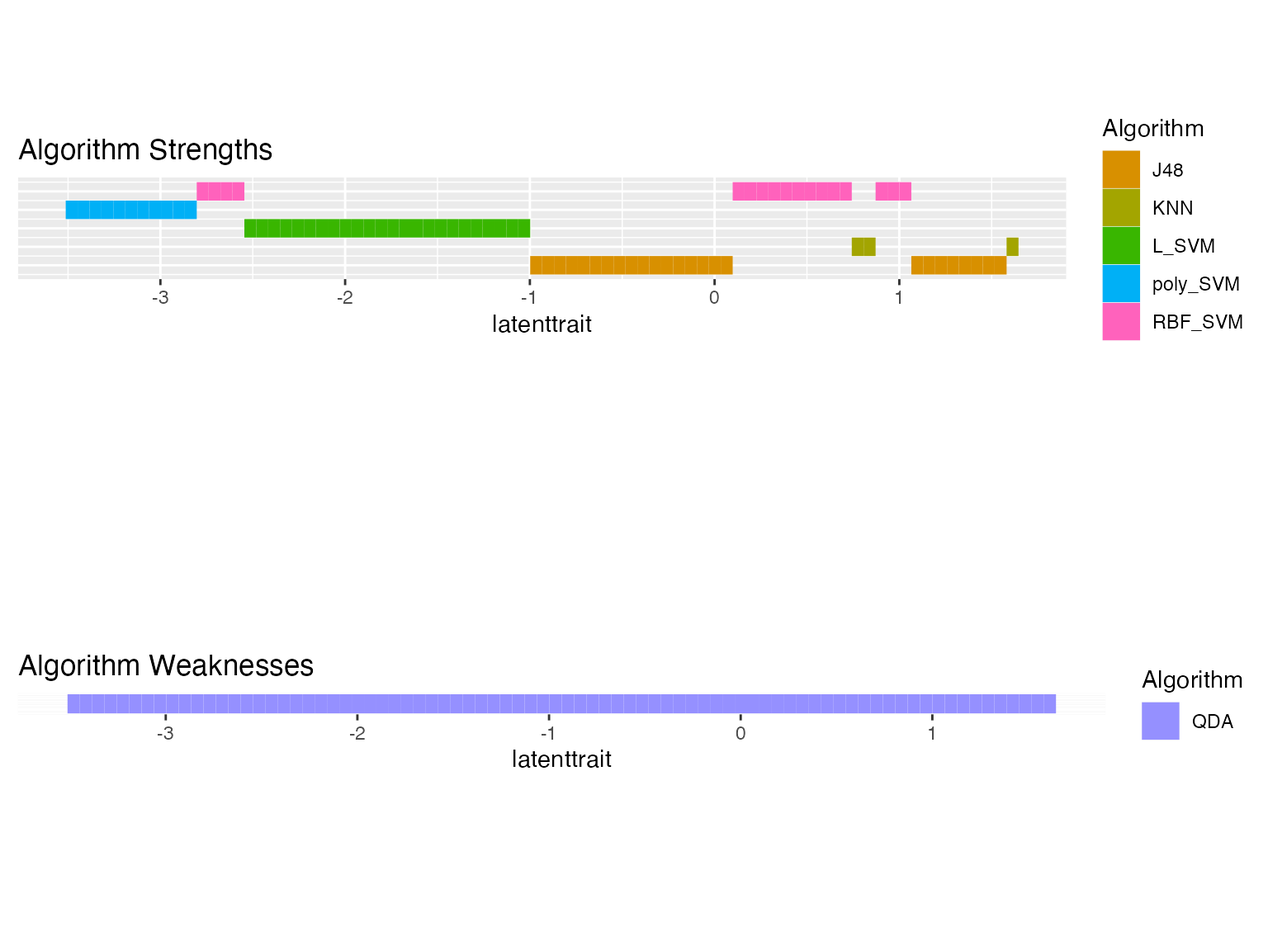
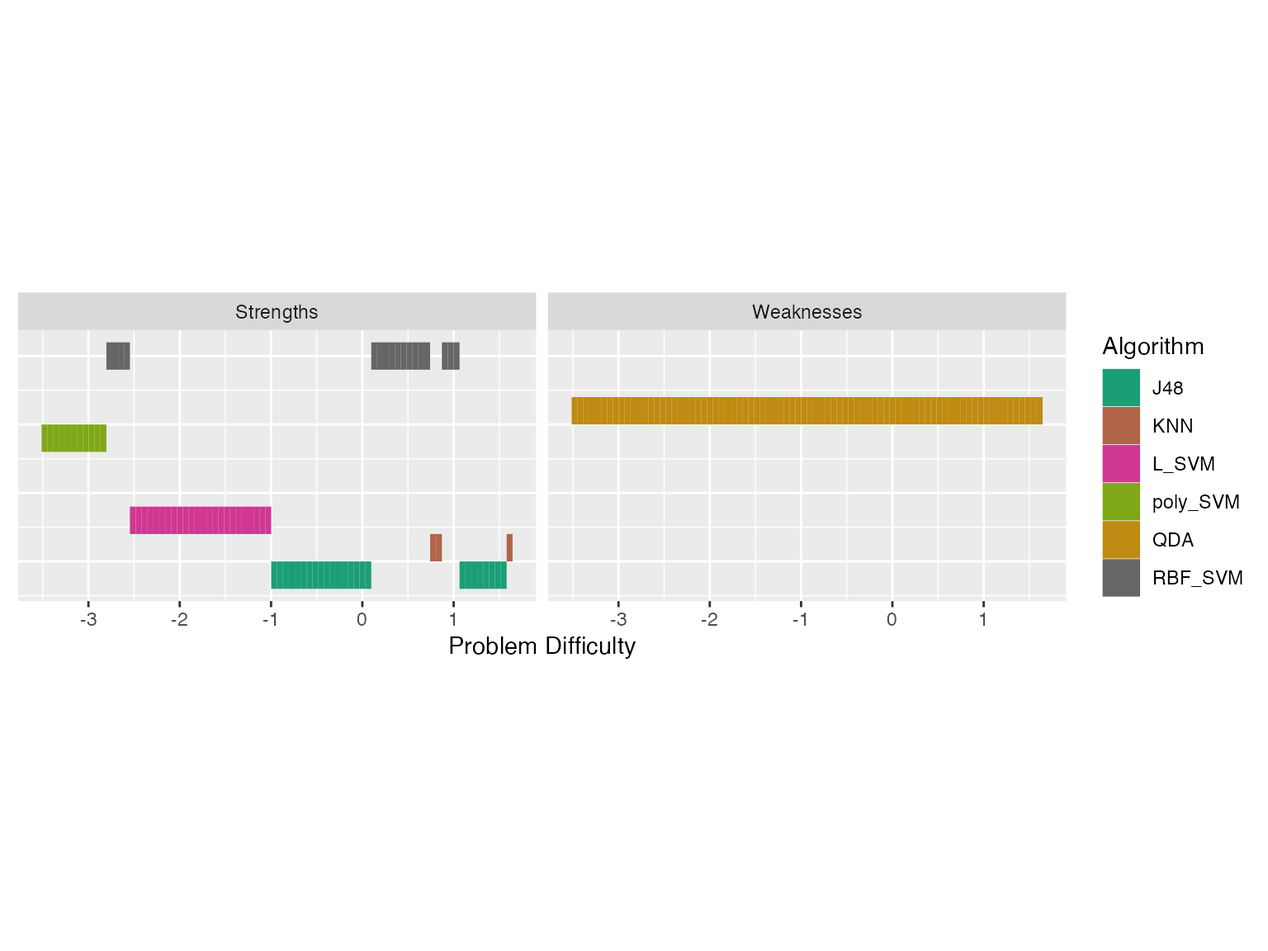
update autoplot latenttrait

diff --git a/docs/articles/airt.html b/docs/articles/airt.html
@@ -143,42 +143,7 @@ algorithm for a given dataset easiness. This gives us the proportion of
 the latent trait spectrum occupied by each algorithm. We call this the
 latent trait occupancy.</p>
 <div class="sourceCode" id="cb7"><pre class="downlit sourceCode r">
-<code class="sourceCode R"><span><span class="va">dfl</span> <span class="op">&lt;-</span> <span class="va">obj</span><span class="op">$</span><span class="va">longdf</span></span>
-<span><span class="va">latent</span> <span class="op">&lt;-</span> <span class="va">obj</span><span class="op">$</span><span class="va">strengths</span></span>
-<span><span class="va">latent</span><span class="op">$</span><span class="va">proportions</span></span>
-<span><span class="co">#&gt; <span style="color: #949494;"># A tibble: 5 × 4</span></span></span>
-<span><span class="co">#&gt;   group Proportion algorithm colour </span></span>
-<span><span class="co">#&gt;   <span style="color: #949494; font-style: italic;">&lt;dbl&gt;</span>      <span style="color: #949494; font-style: italic;">&lt;dbl&gt;</span> <span style="color: #949494; font-style: italic;">&lt;chr&gt;</span>     <span style="color: #949494; font-style: italic;">&lt;chr&gt;</span>  </span></span>
-<span><span class="co">#&gt; <span style="color: #BCBCBC;">1</span>     2     0.472  J48       #D89000</span></span>
-<span><span class="co">#&gt; <span style="color: #BCBCBC;">2</span>    10     0.340  RBF_SVM   #FF62BC</span></span>
-<span><span class="co">#&gt; <span style="color: #BCBCBC;">3</span>     4     0.119  L_SVM     #39B600</span></span>
-<span><span class="co">#&gt; <span style="color: #BCBCBC;">4</span>     3     0.055<span style="text-decoration: underline;">3</span> KNN       #A3A500</span></span>
-<span><span class="co">#&gt; <span style="color: #BCBCBC;">5</span>     7     0.012<span style="text-decoration: underline;">8</span> poly_SVM  #00B0F6</span></span>
-<span></span>
-<span><span class="va">num_algos</span> <span class="op">&lt;-</span> <span class="fu"><a href="https://rdrr.io/r/base/length.html" class="external-link">length</a></span><span class="op">(</span><span class="fu"><a href="https://rdrr.io/r/base/unique.html" class="external-link">unique</a></span><span class="op">(</span><span class="va">dfl</span><span class="op">$</span><span class="va">Algorithm</span><span class="op">)</span><span class="op">)</span></span>
-<span><span class="va">colrs</span> <span class="op">&lt;-</span> <span class="fu">scales</span><span class="fu">::</span><span class="fu"><a href="https://scales.r-lib.org/reference/hue_pal.html" class="external-link">hue_pal</a></span><span class="op">(</span><span class="op">)</span><span class="op">(</span><span class="va">num_algos</span><span class="op">)</span></span>
-<span></span>
-<span><span class="va">latenttr</span> <span class="op">&lt;-</span> <span class="va">obj</span><span class="op">$</span><span class="va">strengths</span><span class="op">$</span><span class="va">multilatent</span></span>
-<span><span class="va">dfl2</span> <span class="op">&lt;-</span> <span class="fu">tidyr</span><span class="fu">::</span><span class="fu"><a href="https://tidyr.tidyverse.org/reference/pivot_longer.html" class="external-link">pivot_longer</a></span><span class="op">(</span><span class="va">latenttr</span>, cols <span class="op">=</span> <span class="fl">2</span><span class="op">:</span><span class="fu"><a href="https://rdrr.io/r/base/dim.html" class="external-link">dim</a></span><span class="op">(</span><span class="va">latenttr</span><span class="op">)</span><span class="op">[</span><span class="fl">2</span><span class="op">]</span><span class="op">)</span></span>
-<span><span class="fu"><a href="https://rdrr.io/r/base/colnames.html" class="external-link">colnames</a></span><span class="op">(</span><span class="va">dfl2</span><span class="op">)</span><span class="op">[</span><span class="fl">2</span><span class="op">]</span> <span class="op">&lt;-</span> <span class="st">"Algorithm"</span></span>
-<span><span class="va">dfl2</span> <span class="op">&lt;-</span> <span class="va">dfl2</span><span class="op">[</span><span class="va">dfl2</span><span class="op">$</span><span class="va">value</span><span class="op">!=</span><span class="fl">0</span>, <span class="op">]</span></span>
-<span><span class="va">new_vals</span> <span class="op">&lt;-</span> <span class="fu"><a href="https://rdrr.io/r/base/seq.html" class="external-link">seq</a></span><span class="op">(</span><span class="fl">1</span>, <span class="fu"><a href="https://rdrr.io/r/base/length.html" class="external-link">length</a></span><span class="op">(</span><span class="fu"><a href="https://rdrr.io/r/base/unique.html" class="external-link">unique</a></span><span class="op">(</span><span class="va">dfl2</span><span class="op">$</span><span class="va">value</span><span class="op">)</span><span class="op">)</span>, by <span class="op">=</span> <span class="fl">1</span><span class="op">)</span></span>
-<span><span class="va">dfl2</span><span class="op">$</span><span class="va">value</span> <span class="op">&lt;-</span> <span class="va">new_vals</span><span class="op">[</span><span class="fu"><a href="https://rdrr.io/r/base/factor.html" class="external-link">as.factor</a></span><span class="op">(</span><span class="va">dfl2</span><span class="op">$</span><span class="va">value</span> <span class="op">)</span><span class="op">]</span></span>
-<span><span class="va">dfl2</span><span class="op">$</span><span class="va">value</span> <span class="op">&lt;-</span> <span class="va">dfl2</span><span class="op">$</span><span class="va">value</span><span class="op">*</span><span class="fl">0.1</span></span>
-<span><span class="va">colrs2</span> <span class="op">&lt;-</span> <span class="va">colrs</span><span class="op">[</span><span class="fu"><a href="https://rdrr.io/r/base/which.html" class="external-link">which</a></span><span class="op">(</span><span class="fu"><a href="https://rdrr.io/r/base/sort.html" class="external-link">sort</a></span><span class="op">(</span><span class="fu"><a href="https://rdrr.io/r/base/unique.html" class="external-link">unique</a></span><span class="op">(</span><span class="va">dfl</span><span class="op">$</span><span class="va">Algorithm</span><span class="op">)</span><span class="op">)</span> <span class="op"><a href="https://rdrr.io/r/base/match.html" class="external-link">%in%</a></span> <span class="fu"><a href="https://rdrr.io/r/base/unique.html" class="external-link">unique</a></span><span class="op">(</span><span class="va">dfl2</span><span class="op">$</span><span class="va">Algorithm</span><span class="op">)</span><span class="op">)</span><span class="op">]</span></span>
-<span><span class="va">g6</span> <span class="op">&lt;-</span> <span class="fu"><a href="https://ggplot2.tidyverse.org/reference/ggplot.html" class="external-link">ggplot</a></span><span class="op">(</span><span class="va">dfl2</span>, <span class="fu"><a href="https://ggplot2.tidyverse.org/reference/aes.html" class="external-link">aes</a></span><span class="op">(</span>x <span class="op">=</span> <span class="va">latenttrait</span>, y <span class="op">=</span><span class="va">value</span>, fill <span class="op">=</span> <span class="va">Algorithm</span><span class="op">)</span><span class="op">)</span> <span class="op">+</span> <span class="fu"><a href="https://ggplot2.tidyverse.org/reference/geom_tile.html" class="external-link">geom_tile</a></span><span class="op">(</span><span class="op">)</span> <span class="op">+</span> <span class="fu"><a href="https://ggplot2.tidyverse.org/reference/theme.html" class="external-link">theme</a></span><span class="op">(</span>axis.title.y<span class="op">=</span><span class="fu"><a href="https://ggplot2.tidyverse.org/reference/element.html" class="external-link">element_blank</a></span><span class="op">(</span><span class="op">)</span>, axis.text.y<span class="op">=</span><span class="fu"><a href="https://ggplot2.tidyverse.org/reference/element.html" class="external-link">element_blank</a></span><span class="op">(</span><span class="op">)</span>,axis.ticks.y<span class="op">=</span><span class="fu"><a href="https://ggplot2.tidyverse.org/reference/element.html" class="external-link">element_blank</a></span><span class="op">(</span><span class="op">)</span><span class="op">)</span> <span class="op">+</span>   <span class="fu"><a href="https://ggplot2.tidyverse.org/reference/scale_manual.html" class="external-link">scale_fill_manual</a></span><span class="op">(</span>values <span class="op">=</span> <span class="va">colrs2</span><span class="op">)</span> <span class="op">+</span> <span class="fu"><a href="https://ggplot2.tidyverse.org/reference/labs.html" class="external-link">ggtitle</a></span><span class="op">(</span><span class="st">"Algorithm Strengths"</span><span class="op">)</span> <span class="op">+</span> <span class="fu"><a href="https://ggplot2.tidyverse.org/reference/coord_fixed.html" class="external-link">coord_fixed</a></span><span class="op">(</span>ratio<span class="op">=</span><span class="fl">1</span><span class="op">)</span></span>
-<span></span>
-<span><span class="va">latenttr2</span> <span class="op">&lt;-</span> <span class="va">obj</span><span class="op">$</span><span class="va">weakness</span><span class="op">$</span><span class="va">multilatent</span></span>
-<span><span class="va">dfl3</span> <span class="op">&lt;-</span> <span class="fu">tidyr</span><span class="fu">::</span><span class="fu"><a href="https://tidyr.tidyverse.org/reference/pivot_longer.html" class="external-link">pivot_longer</a></span><span class="op">(</span><span class="va">latenttr2</span>, cols <span class="op">=</span> <span class="fl">2</span><span class="op">:</span><span class="fu"><a href="https://rdrr.io/r/base/dim.html" class="external-link">dim</a></span><span class="op">(</span><span class="va">latenttr</span><span class="op">)</span><span class="op">[</span><span class="fl">2</span><span class="op">]</span><span class="op">)</span></span>
-<span><span class="fu"><a href="https://rdrr.io/r/base/colnames.html" class="external-link">colnames</a></span><span class="op">(</span><span class="va">dfl3</span><span class="op">)</span><span class="op">[</span><span class="fl">2</span><span class="op">]</span> <span class="op">&lt;-</span> <span class="st">"Algorithm"</span></span>
-<span><span class="va">dfl3</span> <span class="op">&lt;-</span> <span class="va">dfl3</span><span class="op">[</span><span class="va">dfl3</span><span class="op">$</span><span class="va">value</span><span class="op">!=</span><span class="fl">0</span>, <span class="op">]</span></span>
-<span><span class="va">new_vals</span> <span class="op">&lt;-</span> <span class="fu"><a href="https://rdrr.io/r/base/seq.html" class="external-link">seq</a></span><span class="op">(</span><span class="fl">1</span>, <span class="fu"><a href="https://rdrr.io/r/base/length.html" class="external-link">length</a></span><span class="op">(</span><span class="fu"><a href="https://rdrr.io/r/base/unique.html" class="external-link">unique</a></span><span class="op">(</span><span class="va">dfl3</span><span class="op">$</span><span class="va">value</span><span class="op">)</span><span class="op">)</span>, by <span class="op">=</span> <span class="fl">1</span><span class="op">)</span></span>
-<span><span class="va">dfl3</span><span class="op">$</span><span class="va">value</span> <span class="op">&lt;-</span> <span class="va">new_vals</span><span class="op">[</span><span class="fu"><a href="https://rdrr.io/r/base/factor.html" class="external-link">as.factor</a></span><span class="op">(</span><span class="va">dfl3</span><span class="op">$</span><span class="va">value</span> <span class="op">)</span><span class="op">]</span></span>
-<span><span class="va">dfl3</span><span class="op">$</span><span class="va">value</span> <span class="op">&lt;-</span> <span class="va">dfl3</span><span class="op">$</span><span class="va">value</span><span class="op">*</span><span class="fl">0.1</span></span>
-<span><span class="va">colrs2</span> <span class="op">&lt;-</span> <span class="va">colrs</span><span class="op">[</span><span class="fu"><a href="https://rdrr.io/r/base/which.html" class="external-link">which</a></span><span class="op">(</span><span class="fu"><a href="https://rdrr.io/r/base/sort.html" class="external-link">sort</a></span><span class="op">(</span><span class="fu"><a href="https://rdrr.io/r/base/unique.html" class="external-link">unique</a></span><span class="op">(</span><span class="va">dfl</span><span class="op">$</span><span class="va">Algorithm</span><span class="op">)</span><span class="op">)</span> <span class="op"><a href="https://rdrr.io/r/base/match.html" class="external-link">%in%</a></span> <span class="fu"><a href="https://rdrr.io/r/base/unique.html" class="external-link">unique</a></span><span class="op">(</span><span class="va">dfl3</span><span class="op">$</span><span class="va">Algorithm</span><span class="op">)</span><span class="op">)</span><span class="op">]</span></span>
-<span><span class="va">g7</span> <span class="op">&lt;-</span> <span class="fu"><a href="https://ggplot2.tidyverse.org/reference/ggplot.html" class="external-link">ggplot</a></span><span class="op">(</span><span class="va">dfl3</span>, <span class="fu"><a href="https://ggplot2.tidyverse.org/reference/aes.html" class="external-link">aes</a></span><span class="op">(</span>x <span class="op">=</span> <span class="va">latenttrait</span>, y <span class="op">=</span><span class="va">value</span>, fill <span class="op">=</span> <span class="va">Algorithm</span><span class="op">)</span><span class="op">)</span> <span class="op">+</span> <span class="fu"><a href="https://ggplot2.tidyverse.org/reference/geom_tile.html" class="external-link">geom_tile</a></span><span class="op">(</span><span class="op">)</span> <span class="op">+</span> <span class="fu"><a href="https://ggplot2.tidyverse.org/reference/theme.html" class="external-link">theme</a></span><span class="op">(</span>axis.title.y<span class="op">=</span><span class="fu"><a href="https://ggplot2.tidyverse.org/reference/element.html" class="external-link">element_blank</a></span><span class="op">(</span><span class="op">)</span>, axis.text.y<span class="op">=</span><span class="fu"><a href="https://ggplot2.tidyverse.org/reference/element.html" class="external-link">element_blank</a></span><span class="op">(</span><span class="op">)</span>,axis.ticks.y<span class="op">=</span><span class="fu"><a href="https://ggplot2.tidyverse.org/reference/element.html" class="external-link">element_blank</a></span><span class="op">(</span><span class="op">)</span><span class="op">)</span> <span class="op">+</span>  <span class="fu"><a href="https://ggplot2.tidyverse.org/reference/scale_manual.html" class="external-link">scale_fill_manual</a></span><span class="op">(</span>values <span class="op">=</span> <span class="va">colrs2</span><span class="op">)</span>  <span class="op">+</span> <span class="fu"><a href="https://ggplot2.tidyverse.org/reference/labs.html" class="external-link">ggtitle</a></span><span class="op">(</span><span class="st">"Algorithm Weaknesses"</span><span class="op">)</span> <span class="op">+</span>  <span class="fu"><a href="https://ggplot2.tidyverse.org/reference/coord_fixed.html" class="external-link">coord_fixed</a></span><span class="op">(</span>ratio<span class="op">=</span><span class="fl">0.1</span><span class="op">)</span></span>
-<span></span>
-<span><span class="fu"><a href="https://rdrr.io/pkg/gridExtra/man/arrangeGrob.html" class="external-link">grid.arrange</a></span><span class="op">(</span><span class="va">g6</span>, <span class="va">g7</span><span class="op">)</span></span></code></pre></div>
+<code class="sourceCode R"><span><span class="fu"><a href="https://ggplot2.tidyverse.org/reference/autoplot.html" class="external-link">autoplot</a></span><span class="op">(</span><span class="va">obj</span>, plottype <span class="op">=</span> <span class="fl">4</span><span class="op">)</span></span></code></pre></div>
 <p><img src="airt_files/figure-html/latent%204-1.png" width="768"></p>
 <p>We see latent trait occupancy in the graph above. The 5 algorithms
 J48, KNN L_SVM, poly_SVM and RBF_SVM occupy parts of the latent trait
@@ -368,7 +333,7 @@ paper <span class="citation">(Kandanaarachchi and Smith-Miles
 <div id="ref-airtPaper" class="csl-entry">
 Kandanaarachchi, Sevvandi, and Kate Smith-Miles. 2020.
 <span>“Comprehensive Algorithm Portfolio Evaluation Using Item Response
-Theory.”</span> <em>Working Paper</em>. RMIT University. <a href="https://www.researchgate.net/publication/341150504_Comprehensive_Algorithm_Portfolio_Evaluation_using_Item_Response_Theory" class="external-link">https://www.researchgate.net/publication/341150504_Comprehensive_Algorithm_Portfolio_Evaluation_using_Item_Response_Theory</a>.
+Theory.”</span> <em>Working Paper</em>. CSIRO’s Data61. <a href="https://www.researchgate.net/publication/341150504_Comprehensive_Algorithm_Portfolio_Evaluation_using_Item_Response_Theory" class="external-link">https://www.researchgate.net/publication/341150504_Comprehensive_Algorithm_Portfolio_Evaluation_using_Item_Response_Theory</a>.
 </div>
 <div id="ref-munoz2018instance" class="csl-entry">
 Muñoz, Mario A, Laura Villanova, Davaatseren Baatar, and Kate

diff --git a/docs/index.html b/docs/index.html
@@ -155,41 +155,7 @@
 <code class="sourceCode R"><span><span class="fu"><a href="https://ggplot2.tidyverse.org/reference/autoplot.html" class="external-link">autoplot</a></span><span class="op">(</span><span class="va">obj</span>, plottype <span class="op">=</span> <span class="fl">3</span><span class="op">)</span></span></code></pre></div>
 <p><img src="reference/figures/README-latent3-1.png" width="100%"> We fit smoothing-splines to the performance data by algorithm. The figure above shows these smoothing splines for each algorithm as a function of the dataset easiness. From this figure, we can get the best algorithm for a given dataset easiness. This gives us the proportion of the latent trait spectrum occupied by each algorithm. We call this the latent trait occupancy.</p>
 <div class="sourceCode" id="cb8"><pre class="downlit sourceCode r">
-<code class="sourceCode R"><span><span class="va">dfl</span> <span class="op">&lt;-</span> <span class="va">obj</span><span class="op">$</span><span class="va">longdf</span></span>
-<span><span class="va">latent</span> <span class="op">&lt;-</span> <span class="va">obj</span><span class="op">$</span><span class="va">strengths</span></span>
-<span><span class="va">latent</span><span class="op">$</span><span class="va">proportions</span></span>
-<span><span class="co">#&gt; # A tibble: 3 × 4</span></span>
-<span><span class="co">#&gt;   group Proportion algorithm colour </span></span>
-<span><span class="co">#&gt;   &lt;dbl&gt;      &lt;dbl&gt; &lt;chr&gt;     &lt;chr&gt;  </span></span>
-<span><span class="co">#&gt; 1     4      0.87  D         #C77CFF</span></span>
-<span><span class="co">#&gt; 2     1      0.065 A         #F8766D</span></span>
-<span><span class="co">#&gt; 3     3      0.065 C         #00BFC4</span></span>
-<span></span>
-<span><span class="va">num_algos</span> <span class="op">&lt;-</span> <span class="fu"><a href="https://rdrr.io/r/base/length.html" class="external-link">length</a></span><span class="op">(</span><span class="fu"><a href="https://rdrr.io/r/base/unique.html" class="external-link">unique</a></span><span class="op">(</span><span class="va">dfl</span><span class="op">$</span><span class="va">Algorithm</span><span class="op">)</span><span class="op">)</span></span>
-<span><span class="va">colrs</span> <span class="op">&lt;-</span> <span class="fu">scales</span><span class="fu">::</span><span class="fu"><a href="https://scales.r-lib.org/reference/hue_pal.html" class="external-link">hue_pal</a></span><span class="op">(</span><span class="op">)</span><span class="op">(</span><span class="va">num_algos</span><span class="op">)</span></span>
-<span> </span>
-<span><span class="va">latenttr</span> <span class="op">&lt;-</span> <span class="va">obj</span><span class="op">$</span><span class="va">strengths</span><span class="op">$</span><span class="va">multilatent</span></span>
-<span><span class="va">dfl2</span> <span class="op">&lt;-</span> <span class="fu">tidyr</span><span class="fu">::</span><span class="fu"><a href="https://tidyr.tidyverse.org/reference/pivot_longer.html" class="external-link">pivot_longer</a></span><span class="op">(</span><span class="va">latenttr</span>, cols <span class="op">=</span> <span class="fl">2</span><span class="op">:</span><span class="fu"><a href="https://rdrr.io/r/base/dim.html" class="external-link">dim</a></span><span class="op">(</span><span class="va">latenttr</span><span class="op">)</span><span class="op">[</span><span class="fl">2</span><span class="op">]</span><span class="op">)</span></span>
-<span><span class="fu"><a href="https://rdrr.io/r/base/colnames.html" class="external-link">colnames</a></span><span class="op">(</span><span class="va">dfl2</span><span class="op">)</span><span class="op">[</span><span class="fl">2</span><span class="op">]</span> <span class="op">&lt;-</span> <span class="st">"Algorithm"</span></span>
-<span><span class="va">dfl2</span> <span class="op">&lt;-</span> <span class="va">dfl2</span><span class="op">[</span><span class="va">dfl2</span><span class="op">$</span><span class="va">value</span><span class="op">!=</span><span class="fl">0</span>, <span class="op">]</span></span>
-<span><span class="va">new_vals</span> <span class="op">&lt;-</span> <span class="fu"><a href="https://rdrr.io/r/base/seq.html" class="external-link">seq</a></span><span class="op">(</span><span class="fl">1</span>, <span class="fu"><a href="https://rdrr.io/r/base/length.html" class="external-link">length</a></span><span class="op">(</span><span class="fu"><a href="https://rdrr.io/r/base/unique.html" class="external-link">unique</a></span><span class="op">(</span><span class="va">dfl2</span><span class="op">$</span><span class="va">value</span><span class="op">)</span><span class="op">)</span>, by <span class="op">=</span> <span class="fl">1</span><span class="op">)</span></span>
-<span><span class="va">dfl2</span><span class="op">$</span><span class="va">value</span> <span class="op">&lt;-</span> <span class="va">new_vals</span><span class="op">[</span><span class="fu"><a href="https://rdrr.io/r/base/factor.html" class="external-link">as.factor</a></span><span class="op">(</span><span class="va">dfl2</span><span class="op">$</span><span class="va">value</span> <span class="op">)</span><span class="op">]</span></span>
-<span><span class="va">dfl2</span><span class="op">$</span><span class="va">value</span> <span class="op">&lt;-</span> <span class="va">dfl2</span><span class="op">$</span><span class="va">value</span><span class="op">*</span><span class="fl">0.1</span></span>
-<span><span class="va">colrs2</span> <span class="op">&lt;-</span> <span class="va">colrs</span><span class="op">[</span><span class="fu"><a href="https://rdrr.io/r/base/which.html" class="external-link">which</a></span><span class="op">(</span><span class="fu"><a href="https://rdrr.io/r/base/sort.html" class="external-link">sort</a></span><span class="op">(</span><span class="fu"><a href="https://rdrr.io/r/base/unique.html" class="external-link">unique</a></span><span class="op">(</span><span class="va">dfl</span><span class="op">$</span><span class="va">Algorithm</span><span class="op">)</span><span class="op">)</span> <span class="op"><a href="https://rdrr.io/r/base/match.html" class="external-link">%in%</a></span> <span class="fu"><a href="https://rdrr.io/r/base/unique.html" class="external-link">unique</a></span><span class="op">(</span><span class="va">dfl2</span><span class="op">$</span><span class="va">Algorithm</span><span class="op">)</span><span class="op">)</span><span class="op">]</span></span>
-<span><span class="va">g6</span> <span class="op">&lt;-</span> <span class="fu"><a href="https://ggplot2.tidyverse.org/reference/ggplot.html" class="external-link">ggplot</a></span><span class="op">(</span><span class="va">dfl2</span>, <span class="fu"><a href="https://ggplot2.tidyverse.org/reference/aes.html" class="external-link">aes</a></span><span class="op">(</span>x <span class="op">=</span> <span class="va">latenttrait</span>, y <span class="op">=</span><span class="va">value</span>, fill <span class="op">=</span> <span class="va">Algorithm</span><span class="op">)</span><span class="op">)</span> <span class="op">+</span> <span class="fu"><a href="https://ggplot2.tidyverse.org/reference/geom_tile.html" class="external-link">geom_tile</a></span><span class="op">(</span><span class="op">)</span> <span class="op">+</span> <span class="fu"><a href="https://ggplot2.tidyverse.org/reference/theme.html" class="external-link">theme</a></span><span class="op">(</span>axis.title.y<span class="op">=</span><span class="fu"><a href="https://ggplot2.tidyverse.org/reference/element.html" class="external-link">element_blank</a></span><span class="op">(</span><span class="op">)</span>, axis.text.y<span class="op">=</span><span class="fu"><a href="https://ggplot2.tidyverse.org/reference/element.html" class="external-link">element_blank</a></span><span class="op">(</span><span class="op">)</span>,axis.ticks.y<span class="op">=</span><span class="fu"><a href="https://ggplot2.tidyverse.org/reference/element.html" class="external-link">element_blank</a></span><span class="op">(</span><span class="op">)</span><span class="op">)</span>  <span class="op">+</span> <span class="fu"><a href="https://ggplot2.tidyverse.org/reference/scale_manual.html" class="external-link">scale_fill_manual</a></span><span class="op">(</span>values <span class="op">=</span> <span class="va">colrs2</span><span class="op">)</span> <span class="op">+</span>  <span class="fu"><a href="https://ggplot2.tidyverse.org/reference/labs.html" class="external-link">ggtitle</a></span><span class="op">(</span><span class="st">"Algorithm Strengths"</span><span class="op">)</span> <span class="op">+</span>  <span class="fu"><a href="https://ggplot2.tidyverse.org/reference/coord_fixed.html" class="external-link">coord_fixed</a></span><span class="op">(</span>ratio<span class="op">=</span><span class="fl">1</span><span class="op">)</span></span>
-<span></span>
-<span></span>
-<span><span class="va">latenttr2</span> <span class="op">&lt;-</span> <span class="va">obj</span><span class="op">$</span><span class="va">weakness</span><span class="op">$</span><span class="va">multilatent</span></span>
-<span><span class="va">dfl3</span> <span class="op">&lt;-</span> <span class="fu">tidyr</span><span class="fu">::</span><span class="fu"><a href="https://tidyr.tidyverse.org/reference/pivot_longer.html" class="external-link">pivot_longer</a></span><span class="op">(</span><span class="va">latenttr2</span>, cols <span class="op">=</span> <span class="fl">2</span><span class="op">:</span><span class="fu"><a href="https://rdrr.io/r/base/dim.html" class="external-link">dim</a></span><span class="op">(</span><span class="va">latenttr</span><span class="op">)</span><span class="op">[</span><span class="fl">2</span><span class="op">]</span><span class="op">)</span></span>
-<span><span class="fu"><a href="https://rdrr.io/r/base/colnames.html" class="external-link">colnames</a></span><span class="op">(</span><span class="va">dfl3</span><span class="op">)</span><span class="op">[</span><span class="fl">2</span><span class="op">]</span> <span class="op">&lt;-</span> <span class="st">"Algorithm"</span></span>
-<span><span class="va">dfl3</span> <span class="op">&lt;-</span> <span class="va">dfl3</span><span class="op">[</span><span class="va">dfl3</span><span class="op">$</span><span class="va">value</span><span class="op">!=</span><span class="fl">0</span>, <span class="op">]</span></span>
-<span><span class="va">new_vals</span> <span class="op">&lt;-</span> <span class="fu"><a href="https://rdrr.io/r/base/seq.html" class="external-link">seq</a></span><span class="op">(</span><span class="fl">1</span>, <span class="fu"><a href="https://rdrr.io/r/base/length.html" class="external-link">length</a></span><span class="op">(</span><span class="fu"><a href="https://rdrr.io/r/base/unique.html" class="external-link">unique</a></span><span class="op">(</span><span class="va">dfl3</span><span class="op">$</span><span class="va">value</span><span class="op">)</span><span class="op">)</span>, by <span class="op">=</span> <span class="fl">1</span><span class="op">)</span></span>
-<span><span class="va">dfl3</span><span class="op">$</span><span class="va">value</span> <span class="op">&lt;-</span> <span class="va">new_vals</span><span class="op">[</span><span class="fu"><a href="https://rdrr.io/r/base/factor.html" class="external-link">as.factor</a></span><span class="op">(</span><span class="va">dfl3</span><span class="op">$</span><span class="va">value</span> <span class="op">)</span><span class="op">]</span></span>
-<span><span class="va">dfl3</span><span class="op">$</span><span class="va">value</span> <span class="op">&lt;-</span> <span class="va">dfl3</span><span class="op">$</span><span class="va">value</span><span class="op">*</span><span class="fl">0.1</span></span>
-<span><span class="va">colrs2</span> <span class="op">&lt;-</span> <span class="va">colrs</span><span class="op">[</span><span class="fu"><a href="https://rdrr.io/r/base/which.html" class="external-link">which</a></span><span class="op">(</span><span class="fu"><a href="https://rdrr.io/r/base/sort.html" class="external-link">sort</a></span><span class="op">(</span><span class="fu"><a href="https://rdrr.io/r/base/unique.html" class="external-link">unique</a></span><span class="op">(</span><span class="va">dfl</span><span class="op">$</span><span class="va">Algorithm</span><span class="op">)</span><span class="op">)</span> <span class="op"><a href="https://rdrr.io/r/base/match.html" class="external-link">%in%</a></span> <span class="fu"><a href="https://rdrr.io/r/base/unique.html" class="external-link">unique</a></span><span class="op">(</span><span class="va">dfl3</span><span class="op">$</span><span class="va">Algorithm</span><span class="op">)</span><span class="op">)</span><span class="op">]</span></span>
-<span><span class="va">g7</span> <span class="op">&lt;-</span> <span class="fu"><a href="https://ggplot2.tidyverse.org/reference/ggplot.html" class="external-link">ggplot</a></span><span class="op">(</span><span class="va">dfl3</span>, <span class="fu"><a href="https://ggplot2.tidyverse.org/reference/aes.html" class="external-link">aes</a></span><span class="op">(</span>x <span class="op">=</span> <span class="va">latenttrait</span>, y <span class="op">=</span><span class="va">value</span>, fill <span class="op">=</span> <span class="va">Algorithm</span><span class="op">)</span><span class="op">)</span> <span class="op">+</span> <span class="fu"><a href="https://ggplot2.tidyverse.org/reference/geom_tile.html" class="external-link">geom_tile</a></span><span class="op">(</span><span class="op">)</span> <span class="op">+</span> <span class="fu"><a href="https://ggplot2.tidyverse.org/reference/theme.html" class="external-link">theme</a></span><span class="op">(</span>axis.title.y<span class="op">=</span><span class="fu"><a href="https://ggplot2.tidyverse.org/reference/element.html" class="external-link">element_blank</a></span><span class="op">(</span><span class="op">)</span>, axis.text.y<span class="op">=</span><span class="fu"><a href="https://ggplot2.tidyverse.org/reference/element.html" class="external-link">element_blank</a></span><span class="op">(</span><span class="op">)</span>,axis.ticks.y<span class="op">=</span><span class="fu"><a href="https://ggplot2.tidyverse.org/reference/element.html" class="external-link">element_blank</a></span><span class="op">(</span><span class="op">)</span><span class="op">)</span> <span class="op">+</span>  <span class="fu"><a href="https://ggplot2.tidyverse.org/reference/scale_manual.html" class="external-link">scale_fill_manual</a></span><span class="op">(</span>values <span class="op">=</span> <span class="va">colrs2</span><span class="op">)</span>  <span class="op">+</span> <span class="fu"><a href="https://ggplot2.tidyverse.org/reference/labs.html" class="external-link">ggtitle</a></span><span class="op">(</span><span class="st">"Algorithm Weaknesses"</span><span class="op">)</span> <span class="op">+</span>  <span class="fu"><a href="https://ggplot2.tidyverse.org/reference/coord_fixed.html" class="external-link">coord_fixed</a></span><span class="op">(</span>ratio<span class="op">=</span><span class="fl">1</span><span class="op">)</span></span>
-<span></span>
-<span><span class="fu"><a href="https://rdrr.io/pkg/gridExtra/man/arrangeGrob.html" class="external-link">grid.arrange</a></span><span class="op">(</span><span class="va">g6</span>, <span class="va">g7</span><span class="op">)</span></span></code></pre></div>
+<code class="sourceCode R"><span><span class="fu"><a href="https://ggplot2.tidyverse.org/reference/autoplot.html" class="external-link">autoplot</a></span><span class="op">(</span><span class="va">obj</span>, plottype <span class="op">=</span> <span class="fl">4</span><span class="op">)</span></span></code></pre></div>
 <p><img src="reference/figures/README-latent4-1.png" width="100%"> We see that algorithms A, C and D occupy 0.065, 0.0.065 and 0.87 of the latent trait respectively. Algorithm C is best for difficult datasets, while algorithm D dominates the middle of the spectrum. Algorithm A is better for easy datasets.</p>
 <p>Next we look at a polytomous example.</p>
 </div>
@@ -272,7 +238,6 @@
 <div class="dev-status">
 <h2 data-toc-skip>Dev status</h2>
 <ul class="list-unstyled">
-<li><a href="https://github.com/sevvandi/airt/actions" class="external-link"><img src="https://github.com/sevvandi/airt/workflows/R-CMD-check/badge.svg" alt="R-CMD-check"></a></li>
 <li><a href="https://github.com/sevvandi/airt/actions/workflows/R-CMD-check.yaml" class="external-link"><img src="https://github.com/sevvandi/airt/actions/workflows/R-CMD-check.yaml/badge.svg" alt="R-CMD-check"></a></li>
 </ul>
 </div>

diff --git a/docs/reference/latent_trait_analysis.html b/docs/reference/latent_trait_analysis.html
@@ -102,11 +102,12 @@ the best algorithm is considered. A default</p></dd>
 
 <dt>plottype</dt>
 <dd><p>For autoplot: plottype = 1 for all algorithm performances in a single plot, plottype = 2
-for using facet_wrap to plot individual algorithms and plottype = 3 to plot the smoothing splines.</p></dd>
+for using facet_wrap to plot individual algorithms, plottype = 3 to plot the smoothing splines and
+plottype = 4 to plot strengths and weaknesses.</p></dd>
 
 
 <dt>nrow</dt>
-<dd><p>For autoplot: If <code>individual = TRUE</code>, the number of rows for facet_wrap.</p></dd>
+<dd><p>For autoplot: If <code>plottype = 2</code>, the number of rows for facet_wrap.</p></dd>
 
 
 <dt>se</dt>
@@ -1020,6 +1021,7 @@ for using facet_wrap to plot individual algorithms and plottype = 3 to plot the 
 <span class="r-out co"><span class="r-pr">#&gt;</span> </span>
 <span class="r-out co"><span class="r-pr">#&gt;</span> attr(,"class")</span>
 <span class="r-out co"><span class="r-pr">#&gt;</span> [1] "latenttrait"</span>
+<span class="r-in"><span><span class="co"># To plot performance against the problem difficulty</span></span></span>
 <span class="r-in"><span><span class="fu"><a href="https://ggplot2.tidyverse.org/reference/autoplot.html" class="external-link">autoplot</a></span><span class="op">(</span><span class="va">out</span><span class="op">)</span></span></span>
 <span class="r-plt img"><img src="latent_trait_analysis-2.png" alt="" width="700" height="433"></span>
 <span class="r-in"><span><span class="co"># To plot individual panels</span></span></span>
@@ -1028,6 +1030,9 @@ for using facet_wrap to plot individual algorithms and plottype = 3 to plot the 
 <span class="r-in"><span><span class="co"># To plot smoothing splines</span></span></span>
 <span class="r-in"><span><span class="fu"><a href="https://ggplot2.tidyverse.org/reference/autoplot.html" class="external-link">autoplot</a></span><span class="op">(</span><span class="va">out</span>, plottype <span class="op">=</span> <span class="fl">3</span><span class="op">)</span></span></span>
 <span class="r-plt img"><img src="latent_trait_analysis-4.png" alt="" width="700" height="433"></span>
+<span class="r-in"><span><span class="co"># To plot strengths and weaknesses</span></span></span>
+<span class="r-in"><span><span class="fu"><a href="https://ggplot2.tidyverse.org/reference/autoplot.html" class="external-link">autoplot</a></span><span class="op">(</span><span class="va">out</span>, plottype <span class="op">=</span> <span class="fl">4</span><span class="op">)</span></span></span>
+<span class="r-plt img"><img src="latent_trait_analysis-5.png" alt="" width="700" height="433"></span>
 <span class="r-in"><span></span></span>
 </code></pre></div>
     </div>

diff --git a/README.md b/README.md
@@ -5,7 +5,6 @@
 
 <!-- badges: start -->
 
-[![R-CMD-check](https://github.com/sevvandi/airt/workflows/R-CMD-check/badge.svg)](https://github.com/sevvandi/airt/actions)
 [![R-CMD-check](https://github.com/sevvandi/airt/actions/workflows/R-CMD-check.yaml/badge.svg)](https://github.com/sevvandi/airt/actions/workflows/R-CMD-check.yaml)
 <!-- badges: end -->
 
@@ -146,41 +145,7 @@ spectrum occupied by each algorithm. We call this the latent trait
 occupancy.
 
 ``` r
-dfl <- obj$longdf
-latent <- obj$strengths
-latent$proportions
-#> # A tibble: 3 × 4
-#>   group Proportion algorithm colour 
-#>   <dbl>      <dbl> <chr>     <chr>  
-#> 1     4      0.87  D         #C77CFF
-#> 2     1      0.065 A         #F8766D
-#> 3     3      0.065 C         #00BFC4
-
-num_algos <- length(unique(dfl$Algorithm))
-colrs <- scales::hue_pal()(num_algos)
- 
-latenttr <- obj$strengths$multilatent
-dfl2 <- tidyr::pivot_longer(latenttr, cols = 2:dim(latenttr)[2])
-colnames(dfl2)[2] <- "Algorithm"
-dfl2 <- dfl2[dfl2$value!=0, ]
-new_vals <- seq(1, length(unique(dfl2$value)), by = 1)
-dfl2$value <- new_vals[as.factor(dfl2$value )]
-dfl2$value <- dfl2$value*0.1
-colrs2 <- colrs[which(sort(unique(dfl$Algorithm)) %in% unique(dfl2$Algorithm))]
-g6 <- ggplot(dfl2, aes(x = latenttrait, y =value, fill = Algorithm)) + geom_tile() + theme(axis.title.y=element_blank(), axis.text.y=element_blank(),axis.ticks.y=element_blank())  + scale_fill_manual(values = colrs2) +  ggtitle("Algorithm Strengths") +  coord_fixed(ratio=1)
-
-
-latenttr2 <- obj$weakness$multilatent
-dfl3 <- tidyr::pivot_longer(latenttr2, cols = 2:dim(latenttr)[2])
-colnames(dfl3)[2] <- "Algorithm"
-dfl3 <- dfl3[dfl3$value!=0, ]
-new_vals <- seq(1, length(unique(dfl3$value)), by = 1)
-dfl3$value <- new_vals[as.factor(dfl3$value )]
-dfl3$value <- dfl3$value*0.1
-colrs2 <- colrs[which(sort(unique(dfl$Algorithm)) %in% unique(dfl3$Algorithm))]
-g7 <- ggplot(dfl3, aes(x = latenttrait, y =value, fill = Algorithm)) + geom_tile() + theme(axis.title.y=element_blank(), axis.text.y=element_blank(),axis.ticks.y=element_blank()) +  scale_fill_manual(values = colrs2)  + ggtitle("Algorithm Weaknesses") +  coord_fixed(ratio=1)
-
-grid.arrange(g6, g7)
+autoplot(obj, plottype = 4)
 ```
 
 <img src="man/figures/README-latent4-1.png" width="100%" /> We see that
